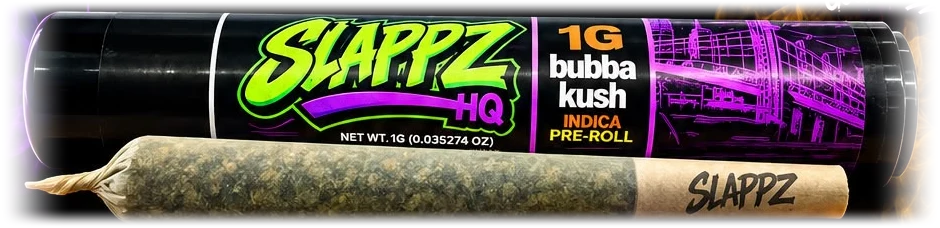
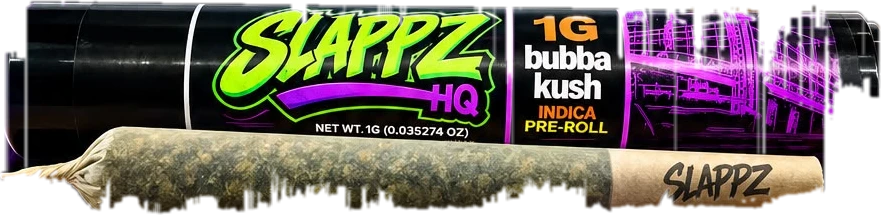
Actually cut the product out of the strain sheets
The pack shots were keeping the sheet's background. The first version feathered the
crop edges instead of removing anything, on the theory that dark smoke would melt
into a dark card — it did not, and the green glow top-right and the purple down the
left came through as visible haze.

Keying on colour was the obvious next move and it also failed, for a reason worth
recording: the smoke is saturated (0.7–1.0) and the tube is neutral (0.00–0.18), so
that part separates cleanly — but the tube's body is also BLACK, and so is much of
the background around it, with no luminance edge between them. Sampled down a column
through the tube's top rim, the values ramp smoothly from dark purple through 0,0,0
into dark grey. Every rule dark enough to take that background took the tube with it:
it went see-through and left the label floating.

What works is not recognising the tube at all. Mark the parts of the product that are
NOT black — neutral greys, the bright label, the pre-roll's beige — take the top and
bottom of those in each column, and fill the span between. The black body ends up
inside that span and comes back opaque for free. A final pass clears smoke swept into
the margins of the silhouette.

Four things that had to be measured rather than assumed, each found by looking at a
render over grey and over the card's own #0b0b0c:

  - Ratio saturation is useless at the extremes here. The sheets are full of bright
[…]

diff --git a/brand/ASSET_MANIFEST.md b/brand/ASSET_MANIFEST.md
@@ -75,24 +75,38 @@ Last updated: 2026-08-31
 | `SlappzPerm.jpeg` | Strain sheet | **Supplied by SLAPPZ** | Master | 🟢 Yes | 1024 × 1536, 326KB |
 | `Slappzbubba.jpeg` | Strain sheet | **Supplied by SLAPPZ** | Master | 🟢 Yes | 1024 × 1536, 333KB |
 | `SlappzSour.jpeg` | Strain sheet | **Supplied by SLAPPZ** | Master | 🟢 Yes | 1024 × 1536, 309KB |
-| `slappz-perm-marker-1g.webp` | Pack shot, feathered | Cut from `SlappzPerm.jpeg` | Product cards | 🟢 Yes | 940 × 250, 64KB |
-| `slappz-bubba-kush-1g.webp` | Pack shot, feathered | Cut from `Slappzbubba.jpeg` | Product cards | 🟢 Yes | 940 × 228, 62KB |
-| `slappz-sour-diesel-1g.webp` | Pack shot, feathered | Cut from `SlappzSour.jpeg` | Product cards | 🟢 Yes | 940 × 228, 60KB |
+| `slappz-perm-marker-1g.webp` | Pack shot, cut out | Cut from `SlappzPerm.jpeg` | Product cards | 🟢 Yes | 881 × 236, 72KB |
+| `slappz-bubba-kush-1g.webp` | Pack shot, cut out | Cut from `Slappzbubba.jpeg` | Product cards | 🟢 Yes | 881 × 215, 72KB |
+| `slappz-sour-diesel-1g.webp` | Pack shot, cut out | Cut from `SlappzSour.jpeg` | Product cards | 🟢 Yes | 881 × 219, 70KB |
 
 > **These are SLAPPZ's own now.** The cards previously used menu pack shots scraped from a stocking
-> retailer's Dutchie listing — retailer framing, retailer lighting, shot on a white studio sweep that had to
-> be keyed out. Request #3 in § 9 asked SLAPPZ for their own product photography; these sheets are it, and
-> the menu shots are gone.
+> retailer's Dutchie listing — retailer framing, retailer lighting, shot on a white studio sweep. Request #3
+> in § 9 asked SLAPPZ for their own product photography; these sheets are it, and the menu shots are gone.
 >
-> **How the pack shots are made.** `node scripts/extract-pack-shot.mjs <sheet.jpeg> <out.webp>` finds the
-> tube-and-pre-roll band on the sheet and feathers its edges to transparent. The band is located, not
-> hardcoded — the three sheets place the product at slightly different heights. Re-run it if a sheet is
-> replaced; do not hand-crop.
+> **How the pack shots are made.** `node scripts/extract-pack-shot.mjs <sheet.jpeg> <out.webp>`. Re-run it
+> if a sheet is replaced; do not hand-crop.
 >
-> **Why feathered and not keyed.** The cards render `object-contain` on the card surface, so a plain
-> rectangular crop would sit there as a visible box of someone else's background. But keying this artwork
-> means separating a glossy black tube from dark purple smoke, and every threshold that takes the smoke also
-> takes a bite out of the tube. Feathering keeps every drawn pixel and lets the frame fall away instead.
+> **Why it builds a silhouette instead of keying on colour.** Two earlier versions of this failed and the
+> reasons are worth keeping:
+>
+> 1. *Feathering the crop edges* rather than removing anything, on the theory that dark smoke would melt
+>    into a dark card. It did not — the green glow top-right and the purple down the left came through as
+>    visible haze.
+> 2. *Keying on colour.* The smoke is saturated (0.7–1.0) and the tube is neutral (0.00–0.18), which does
+>    separate — but the tube's body is also BLACK, and so is much of the background around it, with no
+>    luminance edge between them: down a column through the tube's top rim the values ramp smoothly from
+>    dark purple through 0,0,0 into dark grey. Any rule dark enough to take that background takes the tube
+>    with it. It went see-through and left the label floating.
+>
+> What works is marking the parts of the product that are NOT black — neutral greys, the bright label, the
+> pre-roll's beige — taking the top and bottom of those in each column, and filling the span between. The
+> tube's black body ends up inside that span and comes back opaque without ever being recognised on its own.
+> A final pass clears smoke that got swept into the margins of the silhouette.
+>
+> **If you retune it, look at the output.** Every parameter in that script was set by looking at a render
+> over both grey and the card's own #0b0b0c, and several plausible settings fail in ways the numbers do not
+> show: too much head room admits the "GOOD FLOWERS GOOD PEOPLE" script, a blanket interior sweep punches
+> holes through the skyline art, and an over-long run requirement clips the tube's top.
 
 **Product data policy:** `src/data/products.ts` contains **only** SKUs evidenced publicly — Permanent Marker
 (hybrid), Bubba Kush (indica) and Sour Diesel (sativa), each documented on SLAPPZ's own strain sheet.
